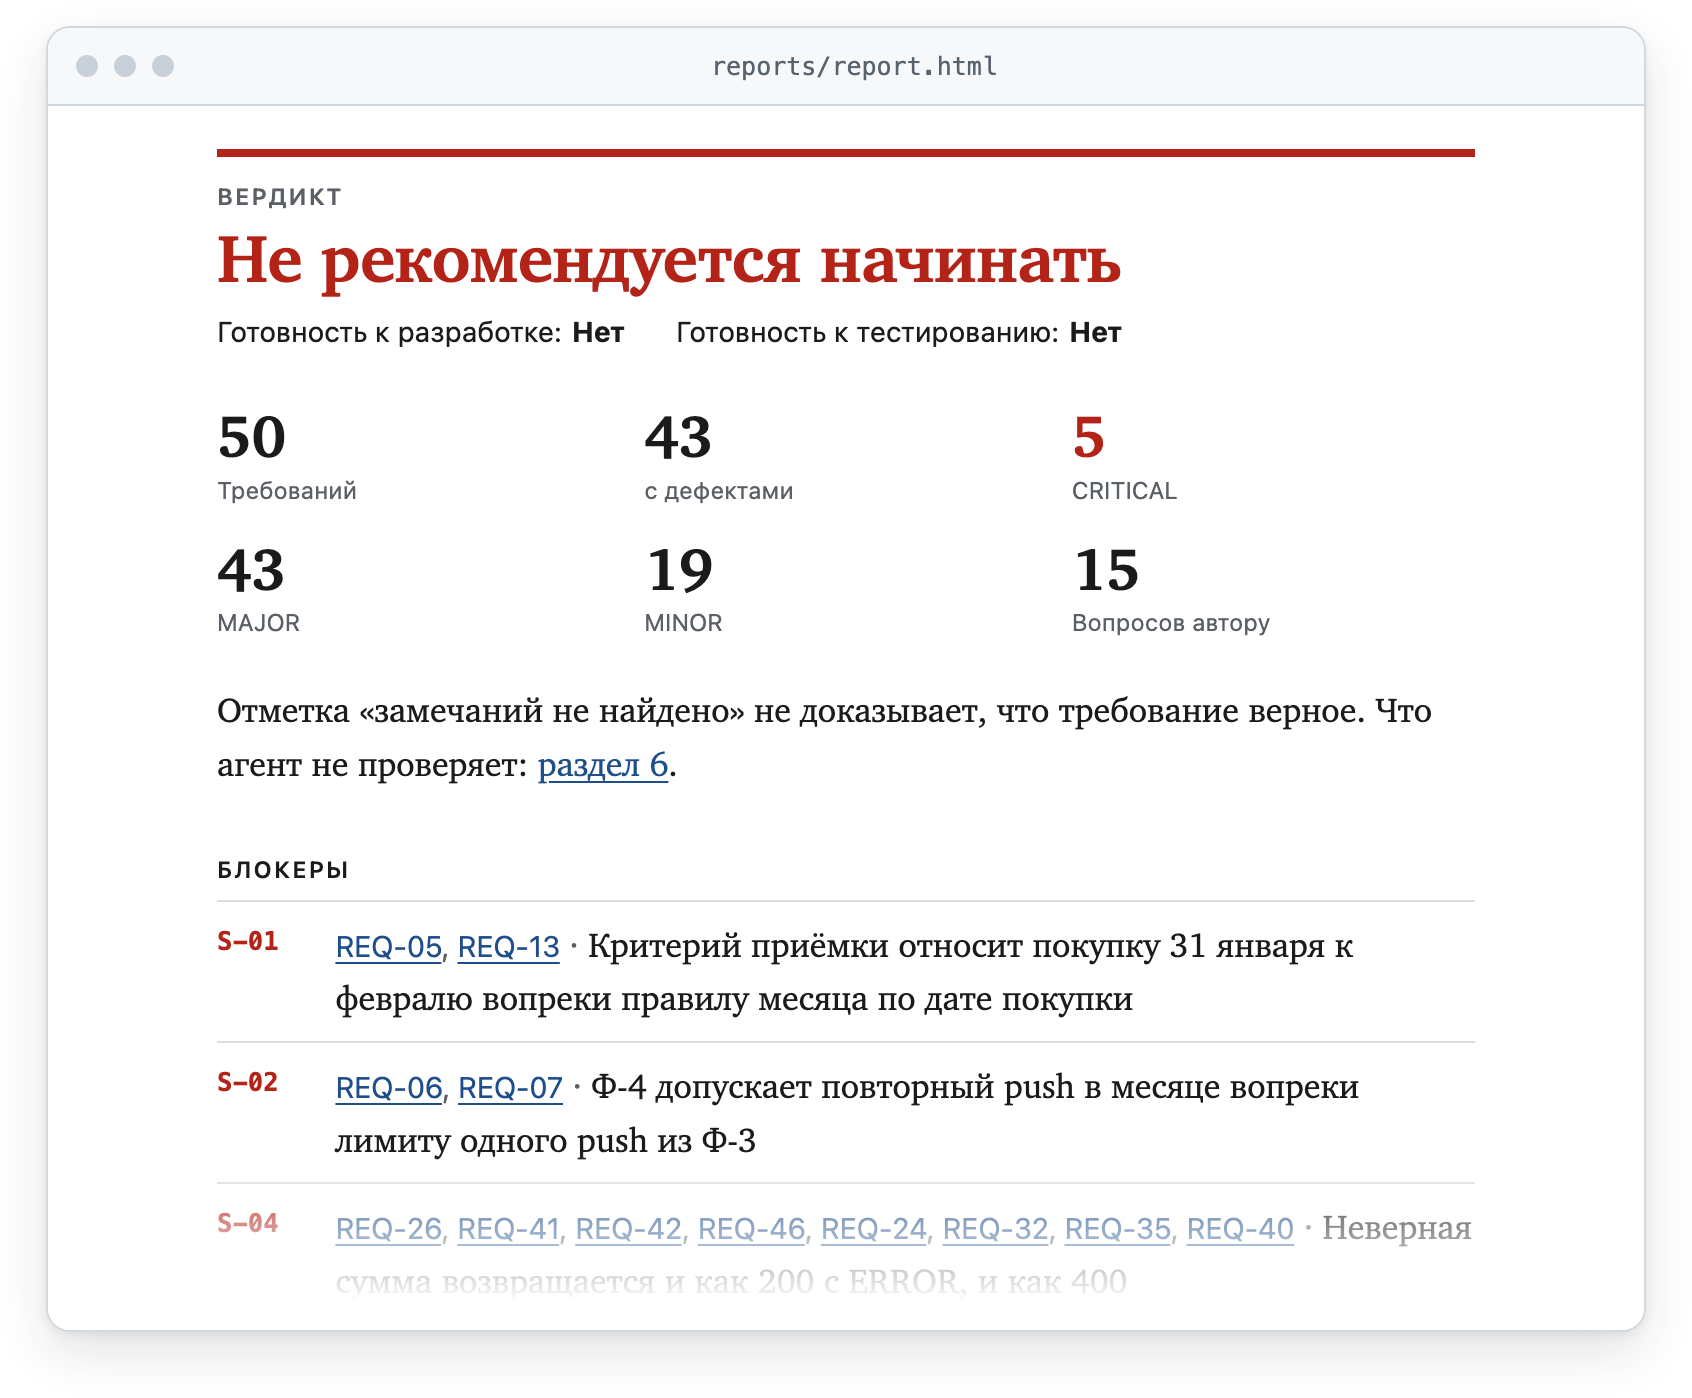
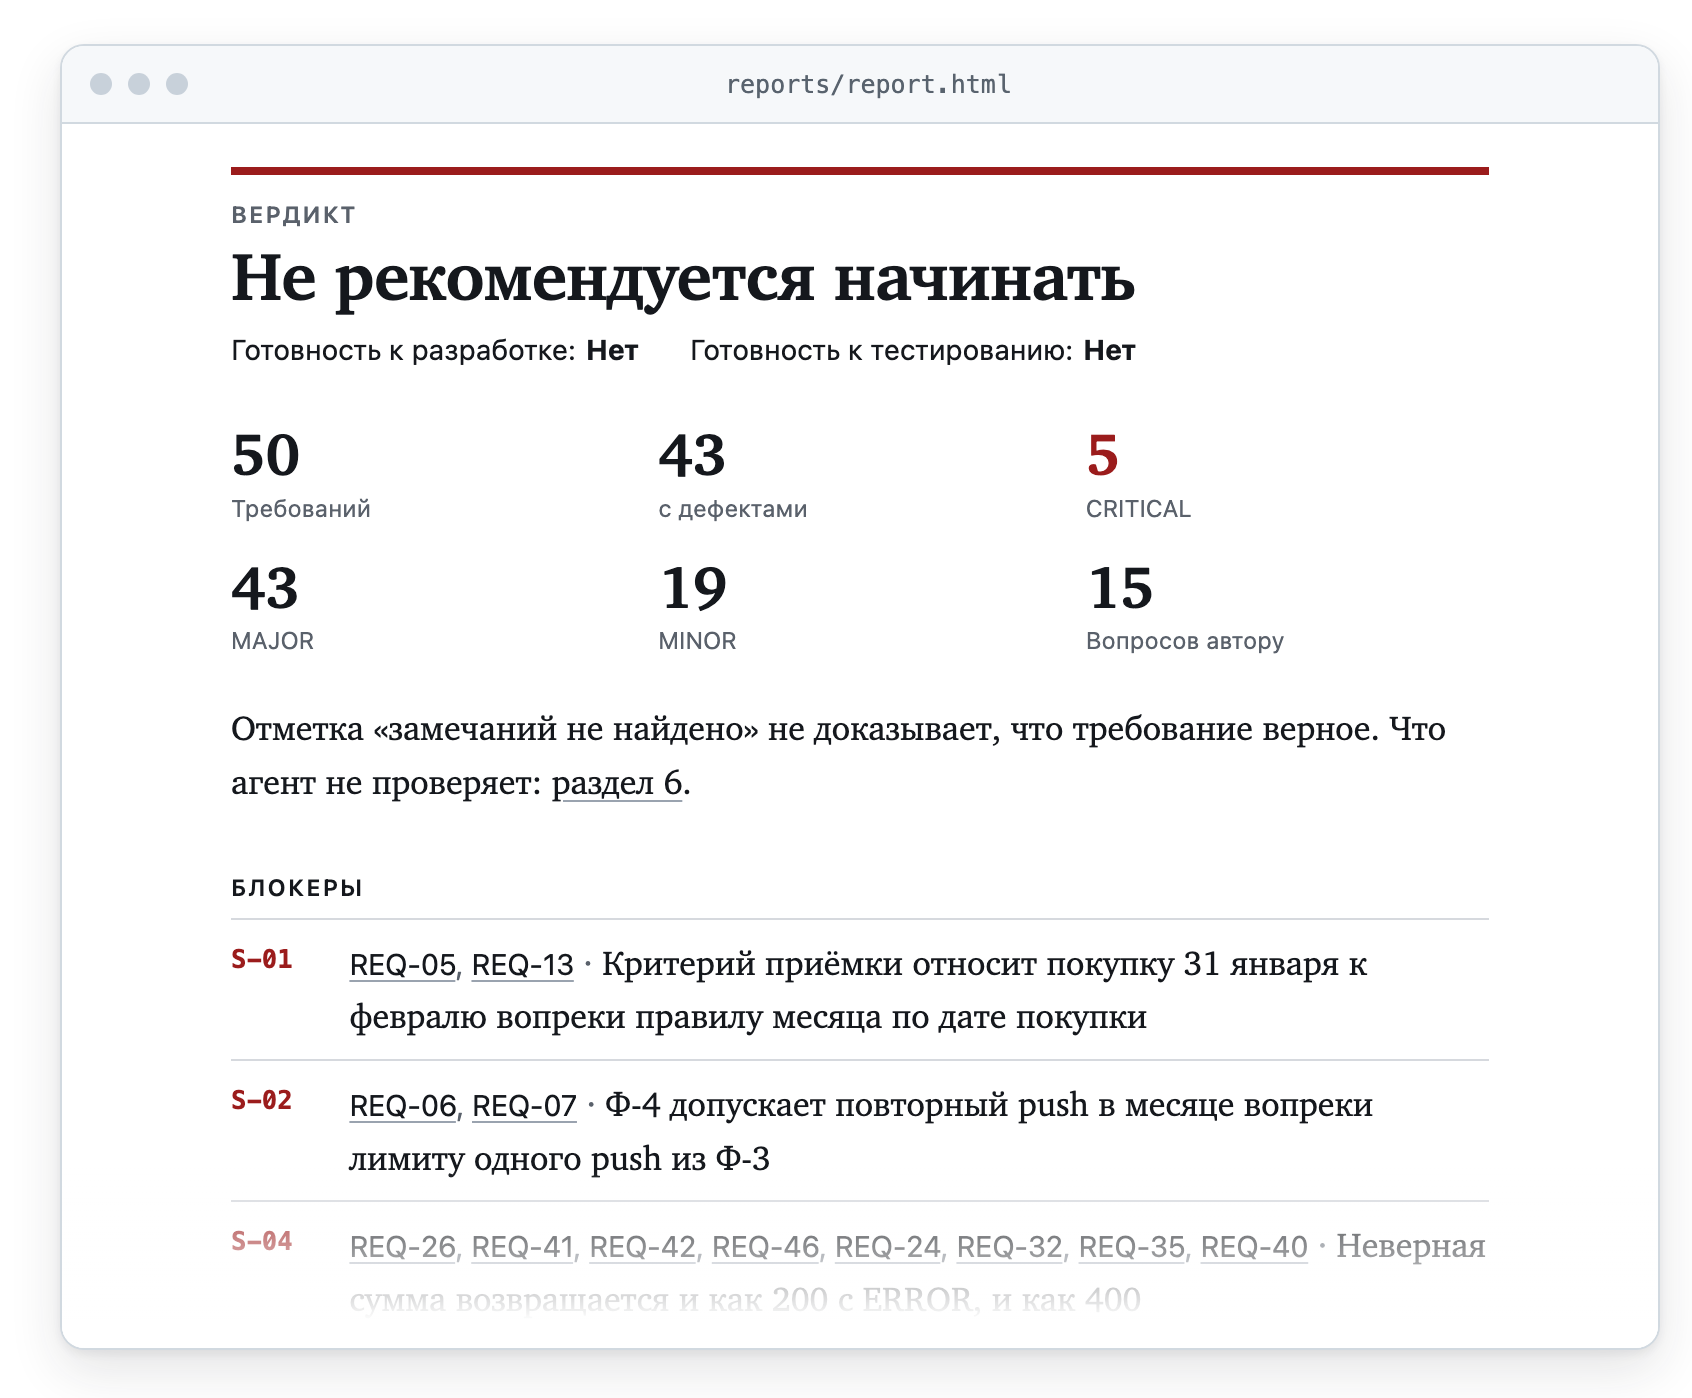
HTML-отчёт строже: ссылки цветом текста, вердикт без цвета, тёмная тема без синего и розового
Цвет остался только у линии над вердиктом, числа CRITICAL и номеров замечаний. Кнопки фильтра стали тихими подписями.
Отчёты в reports/ и examples/answered перерисованы из json, снимки в README пересняты.

diff --git a/examples/answered/report.html b/examples/answered/report.html
@@ -9,8 +9,8 @@
 <style>
 :root {
   color-scheme: light dark;
-  --bg: #ffffff; --fg: #1a1b1d; --muted: #5b6066; --ln: #6c7178; --rule: #dadcdf; --strong: #1a1b1d;
-  --quote-bg: #f5f5f2; --link: #1f4e8c; --crit: #b42318; --major: #8a5300; --mark: #fff0b3;
+  --bg: #ffffff; --fg: #15181d; --muted: #5a616b; --ln: #6c7178; --rule: #d6d9de; --strong: #15181d;
+  --quote-bg: #f4f5f6; --link: #15181d; --link-line: #9aa3af; --crit: #9b1c1c; --major: #7a5200; --mark: #fff0b3;
   --serif: Charter, "Bitstream Charter", "Sitka Text", Cambria, Georgia, serif;
   --sans: -apple-system, BlinkMacSystemFont, "Segoe UI", system-ui, Roboto, "Helvetica Neue", Arial, sans-serif;
   --mono: ui-monospace, "SF Mono", SFMono-Regular, Menlo, Consolas, "Liberation Mono", monospace;
@@ -18,15 +18,17 @@
 }
 @media (prefers-color-scheme: dark) {
   :root {
-    --bg: #161719; --fg: #e6e4e0; --muted: #a6aab0; --ln: #8f949b; --rule: #34373b; --strong: #e6e4e0;
-    --quote-bg: #212326; --link: #93bbf5; --crit: #ff8b7e; --major: #e3ad52; --mark: #4d4214;
+    --bg: #12151a; --fg: #e4e2dd; --muted: #9da4ae; --ln: #8a919b; --rule: #2b3139; --strong: #e4e2dd;
+    --quote-bg: #1a1f26; --link: #e4e2dd; --link-line: #6f7885; --crit: #e0786c; --major: #d3a558; --mark: #4d4214;
   }
 }
 * { box-sizing: border-box; }
 html { -webkit-text-size-adjust: 100%; }
 body { margin: 0; background: var(--bg); color: var(--fg); font: 17px/1.58 var(--serif);
   font-kerning: normal; overflow-wrap: break-word; }
-a { color: var(--link); text-decoration-thickness: 1px; text-underline-offset: 0.16em; }
+a { color: var(--link); text-decoration-color: var(--link-line); text-decoration-thickness: 1px;
+  text-underline-offset: 0.18em; }
+a:hover { text-decoration-color: currentColor; }
 .doc a[href^="#"] { white-space: nowrap; }
 a:focus-visible, button:focus-visible, summary:focus-visible { outline: 2px solid var(--link); outline-offset: 2px; }
 code { font: 0.84em var(--mono); overflow-wrap: anywhere; }
@@ -49,12 +51,14 @@ h1 { font: 600 1.6rem/1.2 var(--serif); margin: 0 0 0.5rem; letter-spacing: -0.0
 .toc ul { list-style: none; margin: 0; padding: 0; display: flex; flex-wrap: wrap; gap: 0.15rem 1rem; }
 .toc li { margin: 0; }
 .toc a { color: var(--fg); text-decoration: none; display: inline-block; padding: 0.2rem 0; }
-.toc a:hover { color: var(--link); text-decoration: underline; }
+.toc a:hover { text-decoration: underline; }
 .tools { display: flex; flex-wrap: wrap; align-items: baseline; gap: 0 0.95rem; margin-top: 0.4rem; }
 .tools[hidden] { display: none; }
 .tools-label { color: var(--muted); }
-.tools button { font: inherit; color: var(--link); background: none; border: 0; padding: 0.3rem 0; cursor: pointer;
-  text-decoration: underline; text-decoration-thickness: 1px; text-underline-offset: 0.18em; }
+.tools button { font: inherit; color: var(--muted); background: none; border: 0; padding: 0.3rem 0; cursor: pointer;
+  text-decoration: none; }
+.tools button:hover { color: var(--fg); text-decoration: underline; text-decoration-thickness: 1px;
+  text-underline-offset: 0.18em; }
 .tools button[aria-pressed="true"] { color: var(--fg); font-weight: 700; text-decoration: none; }
 
 /* заголовки */
@@ -69,7 +73,7 @@ h3 { font: 600 1.14rem/1.35 var(--serif); margin: 2rem 0 0.5rem; }
 .v-bad { --v: var(--crit); } .v-warn { --v: var(--major); } .v-ok { --v: var(--fg); }
 .verdict .label { display: block; font: 600 0.72rem/1.4 var(--sans); letter-spacing: 0.09em;
   text-transform: uppercase; color: var(--muted); }
-.decision { display: block; font: 600 2.1rem/1.12 var(--serif); color: var(--v); margin: 0.2rem 0 0.5rem;
+.decision { display: block; font: 600 2.1rem/1.12 var(--serif); color: var(--fg); margin: 0.2rem 0 0.5rem;
   letter-spacing: -0.012em; text-wrap: balance; }
 .verdict-note { margin: 0.3rem 0; color: var(--muted); }
 .ready { font: 0.88rem/1.5 var(--sans); display: flex; flex-wrap: wrap; gap: 0.1rem 1.6rem; margin: 0.5rem 0 0; }

diff --git a/reports/report.html b/reports/report.html
@@ -9,8 +9,8 @@
 <style>
 :root {
   color-scheme: light dark;
-  --bg: #ffffff; --fg: #1a1b1d; --muted: #5b6066; --ln: #6c7178; --rule: #dadcdf; --strong: #1a1b1d;
-  --quote-bg: #f5f5f2; --link: #1f4e8c; --crit: #b42318; --major: #8a5300; --mark: #fff0b3;
+  --bg: #ffffff; --fg: #15181d; --muted: #5a616b; --ln: #6c7178; --rule: #d6d9de; --strong: #15181d;
+  --quote-bg: #f4f5f6; --link: #15181d; --link-line: #9aa3af; --crit: #9b1c1c; --major: #7a5200; --mark: #fff0b3;
   --serif: Charter, "Bitstream Charter", "Sitka Text", Cambria, Georgia, serif;
   --sans: -apple-system, BlinkMacSystemFont, "Segoe UI", system-ui, Roboto, "Helvetica Neue", Arial, sans-serif;
   --mono: ui-monospace, "SF Mono", SFMono-Regular, Menlo, Consolas, "Liberation Mono", monospace;
@@ -18,15 +18,17 @@
 }
 @media (prefers-color-scheme: dark) {
   :root {
-    --bg: #161719; --fg: #e6e4e0; --muted: #a6aab0; --ln: #8f949b; --rule: #34373b; --strong: #e6e4e0;
-    --quote-bg: #212326; --link: #93bbf5; --crit: #ff8b7e; --major: #e3ad52; --mark: #4d4214;
+    --bg: #12151a; --fg: #e4e2dd; --muted: #9da4ae; --ln: #8a919b; --rule: #2b3139; --strong: #e4e2dd;
+    --quote-bg: #1a1f26; --link: #e4e2dd; --link-line: #6f7885; --crit: #e0786c; --major: #d3a558; --mark: #4d4214;
   }
 }
 * { box-sizing: border-box; }
 html { -webkit-text-size-adjust: 100%; }
 body { margin: 0; background: var(--bg); color: var(--fg); font: 17px/1.58 var(--serif);
   font-kerning: normal; overflow-wrap: break-word; }
-a { color: var(--link); text-decoration-thickness: 1px; text-underline-offset: 0.16em; }
+a { color: var(--link); text-decoration-color: var(--link-line); text-decoration-thickness: 1px;
+  text-underline-offset: 0.18em; }
+a:hover { text-decoration-color: currentColor; }
 .doc a[href^="#"] { white-space: nowrap; }
 a:focus-visible, button:focus-visible, summary:focus-visible { outline: 2px solid var(--link); outline-offset: 2px; }
 code { font: 0.84em var(--mono); overflow-wrap: anywhere; }
@@ -49,12 +51,14 @@ h1 { font: 600 1.6rem/1.2 var(--serif); margin: 0 0 0.5rem; letter-spacing: -0.0
 .toc ul { list-style: none; margin: 0; padding: 0; display: flex; flex-wrap: wrap; gap: 0.15rem 1rem; }
 .toc li { margin: 0; }
 .toc a { color: var(--fg); text-decoration: none; display: inline-block; padding: 0.2rem 0; }
-.toc a:hover { color: var(--link); text-decoration: underline; }
+.toc a:hover { text-decoration: underline; }
 .tools { display: flex; flex-wrap: wrap; align-items: baseline; gap: 0 0.95rem; margin-top: 0.4rem; }
 .tools[hidden] { display: none; }
 .tools-label { color: var(--muted); }
-.tools button { font: inherit; color: var(--link); background: none; border: 0; padding: 0.3rem 0; cursor: pointer;
-  text-decoration: underline; text-decoration-thickness: 1px; text-underline-offset: 0.18em; }
+.tools button { font: inherit; color: var(--muted); background: none; border: 0; padding: 0.3rem 0; cursor: pointer;
+  text-decoration: none; }
+.tools button:hover { color: var(--fg); text-decoration: underline; text-decoration-thickness: 1px;
+  text-underline-offset: 0.18em; }
 .tools button[aria-pressed="true"] { color: var(--fg); font-weight: 700; text-decoration: none; }
 
 /* заголовки */
@@ -69,7 +73,7 @@ h3 { font: 600 1.14rem/1.35 var(--serif); margin: 2rem 0 0.5rem; }
 .v-bad { --v: var(--crit); } .v-warn { --v: var(--major); } .v-ok { --v: var(--fg); }
 .verdict .label { display: block; font: 600 0.72rem/1.4 var(--sans); letter-spacing: 0.09em;
   text-transform: uppercase; color: var(--muted); }
-.decision { display: block; font: 600 2.1rem/1.12 var(--serif); color: var(--v); margin: 0.2rem 0 0.5rem;
+.decision { display: block; font: 600 2.1rem/1.12 var(--serif); color: var(--fg); margin: 0.2rem 0 0.5rem;
   letter-spacing: -0.012em; text-wrap: balance; }
 .verdict-note { margin: 0.3rem 0; color: var(--muted); }
 .ready { font: 0.88rem/1.5 var(--sans); display: flex; flex-wrap: wrap; gap: 0.1rem 1.6rem; margin: 0.5rem 0 0; }

diff --git a/src/reqask/report_html.py b/src/reqask/report_html.py
@@ -799,8 +799,8 @@ def render_html(result: RunResult) -> str:
 CSS = """
 :root {
   color-scheme: light dark;
-  --bg: #ffffff; --fg: #1a1b1d; --muted: #5b6066; --ln: #6c7178; --rule: #dadcdf; --strong: #1a1b1d;
-  --quote-bg: #f5f5f2; --link: #1f4e8c; --crit: #b42318; --major: #8a5300; --mark: #fff0b3;
+  --bg: #ffffff; --fg: #15181d; --muted: #5a616b; --ln: #6c7178; --rule: #d6d9de; --strong: #15181d;
+  --quote-bg: #f4f5f6; --link: #15181d; --link-line: #9aa3af; --crit: #9b1c1c; --major: #7a5200; --mark: #fff0b3;
   --serif: Charter, "Bitstream Charter", "Sitka Text", Cambria, Georgia, serif;
   --sans: -apple-system, BlinkMacSystemFont, "Segoe UI", system-ui, Roboto, "Helvetica Neue", Arial, sans-serif;
   --mono: ui-monospace, "SF Mono", SFMono-Regular, Menlo, Consolas, "Liberation Mono", monospace;
@@ -808,15 +808,17 @@ CSS = """
 }
 @media (prefers-color-scheme: dark) {
   :root {
-    --bg: #161719; --fg: #e6e4e0; --muted: #a6aab0; --ln: #8f949b; --rule: #34373b; --strong: #e6e4e0;
-    --quote-bg: #212326; --link: #93bbf5; --crit: #ff8b7e; --major: #e3ad52; --mark: #4d4214;
+    --bg: #12151a; --fg: #e4e2dd; --muted: #9da4ae; --ln: #8a919b; --rule: #2b3139; --strong: #e4e2dd;
+    --quote-bg: #1a1f26; --link: #e4e2dd; --link-line: #6f7885; --crit: #e0786c; --major: #d3a558; --mark: #4d4214;
   }
 }
 * { box-sizing: border-box; }
 html { -webkit-text-size-adjust: 100%; }
 body { margin: 0; background: var(--bg); color: var(--fg); font: 17px/1.58 var(--serif);
   font-kerning: normal; overflow-wrap: break-word; }
-a { color: var(--link); text-decoration-thickness: 1px; text-underline-offset: 0.16em; }
+a { color: var(--link); text-decoration-color: var(--link-line); text-decoration-thickness: 1px;
+  text-underline-offset: 0.18em; }
+a:hover { text-decoration-color: currentColor; }
 .doc a[href^="#"] { white-space: nowrap; }
 a:focus-visible, button:focus-visible, summary:focus-visible { outline: 2px solid var(--link); outline-offset: 2px; }
 code { font: 0.84em var(--mono); overflow-wrap: anywhere; }
@@ -839,12 +841,14 @@ h1 { font: 600 1.6rem/1.2 var(--serif); margin: 0 0 0.5rem; letter-spacing: -0.0
 .toc ul { list-style: none; margin: 0; padding: 0; display: flex; flex-wrap: wrap; gap: 0.15rem 1rem; }
 .toc li { margin: 0; }
 .toc a { color: var(--fg); text-decoration: none; display: inline-block; padding: 0.2rem 0; }
-.toc a:hover { color: var(--link); text-decoration: underline; }
+.toc a:hover { text-decoration: underline; }
 .tools { display: flex; flex-wrap: wrap; align-items: baseline; gap: 0 0.95rem; margin-top: 0.4rem; }
 .tools[hidden] { display: none; }
 .tools-label { color: var(--muted); }
-.tools button { font: inherit; color: var(--link); background: none; border: 0; padding: 0.3rem 0; cursor: pointer;
-  text-decoration: underline; text-decoration-thickness: 1px; text-underline-offset: 0.18em; }
+.tools button { font: inherit; color: var(--muted); background: none; border: 0; padding: 0.3rem 0; cursor: pointer;
+  text-decoration: none; }
+.tools button:hover { color: var(--fg); text-decoration: underline; text-decoration-thickness: 1px;
+  text-underline-offset: 0.18em; }
 .tools button[aria-pressed="true"] { color: var(--fg); font-weight: 700; text-decoration: none; }
 
 /* заголовки */
@@ -859,7 +863,7 @@ h3 { font: 600 1.14rem/1.35 var(--serif); margin: 2rem 0 0.5rem; }
 .v-bad { --v: var(--crit); } .v-warn { --v: var(--major); } .v-ok { --v: var(--fg); }
 .verdict .label { display: block; font: 600 0.72rem/1.4 var(--sans); letter-spacing: 0.09em;
   text-transform: uppercase; color: var(--muted); }
-.decision { display: block; font: 600 2.1rem/1.12 var(--serif); color: var(--v); margin: 0.2rem 0 0.5rem;
+.decision { display: block; font: 600 2.1rem/1.12 var(--serif); color: var(--fg); margin: 0.2rem 0 0.5rem;
   letter-spacing: -0.012em; text-wrap: balance; }
 .verdict-note { margin: 0.3rem 0; color: var(--muted); }
 .ready { font: 0.88rem/1.5 var(--sans); display: flex; flex-wrap: wrap; gap: 0.1rem 1.6rem; margin: 0.5rem 0 0; }
